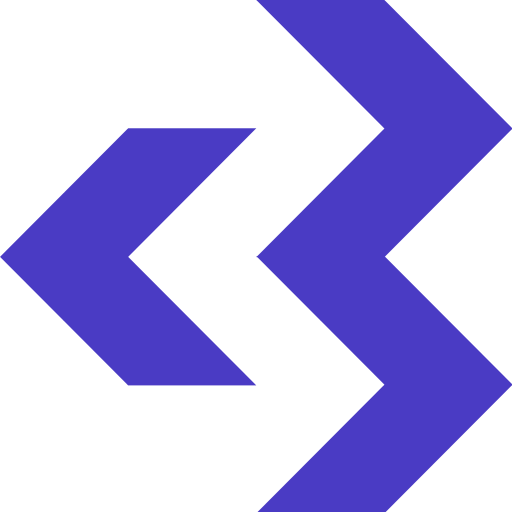
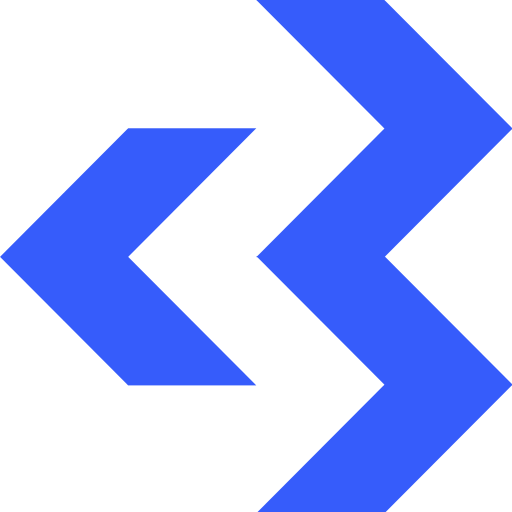
Colour scheme changes. Basic layout.

diff --git a/_layouts/default.html b/_layouts/default.html
@@ -21,12 +21,11 @@
   </style>
   </head>
   <body>
-    <div class="Header">
+    <div class="Header mx-5">
       <div class="Header-item">
-        <img class="logo" src="/assets/img/logo-purple.svg">
+        <img class="logo" src="/assets/img/logo-gradient-blue.svg">
       </div>
       <div class="Header-item Header-item--full">
-        Courtney Bracefield
       </div>
       <div class="Header-item mr-0">
         <a href="#" class="Header-link">About</a>
@@ -40,6 +39,7 @@
           <a href="#" class="Header-link">Contact</a>
       </div>
     </div>
+    {% include banner.html %}
     <script src="assets/js/index.js"></script>
     <script src="https://code.jquery.com/jquery-3.5.1.slim.min.js" integrity="sha256-4+XzXVhsDmqanXGHaHvgh1gMQKX40OUvDEBTu8JcmNs=" crossorigin="anonymous"></script>
   </body>

diff --git a/_includes/banner.html b/_includes/banner.html
@@ -1,0 +1,15 @@
+<div class="container-lg clearfix mx-lg-auto mx-md-5 mx-sm-5 my-3">
+  <div class="row d-flex flex-justify-between pt-5">
+    <div class="col-12 col-lg-6 float-left">
+      <p class="name reenie-beanie">Courtney Bracefield</p>
+      <h1 class="subtitle">Software developer based in Christchurch, New Zealand</h1>
+    </div>
+    <div class="col-auto float-left flex-self-center">
+      <div class="CircleBadge circle-badge-override" height="200px" width="200px">
+        <img class="circle" height="180px" src="assets/img/profile-photo-bg.jpg">
+      </div>
+      <!-- <img class="circle" height="180px" src="assets/img/profile-photo-bg.jpg">
+      <img height="250px" src="assets/img/circle-gradient-dark.svg"> -->
+    </div>
+  </div>
+</div>

diff --git a/assets/css/style.scss b/assets/css/style.scss
@@ -1,13 +1,31 @@
 ---
 ---
 
+body {
+  font-family: 'Inter', sans-serif;
+  background-color: #09090b;
+  color: white;
+}
+
+.name {
+  font-size: 2em;
+}
+
 .logo {
   height: 42px;
 }
 
+.reenie-beanie {
+  font-family: 'Reenie Beanie', sans-serif;
+}
+
+.subtitle {
+  font-size: 3em;
+  font-weight: 500;
+}
+
 .Header {
-  background-color: #25262f;
-  color: #fbfbff;
+  background-color: #09090b;
   font-family: 'Reenie Beanie', sans-serif;
   font-size: 28px;
 }
@@ -17,5 +35,12 @@
 }
 
 .Header-link:hover {
-  color: #4a25d2;
+  color: #6057f9;
+}
+
+.circle-badge-override {
+  height: 230px;
+  width: 230px;
+  // background-color: #4a25d2;
+  background-image: linear-gradient(#365cfb, #6057f9);
 }
